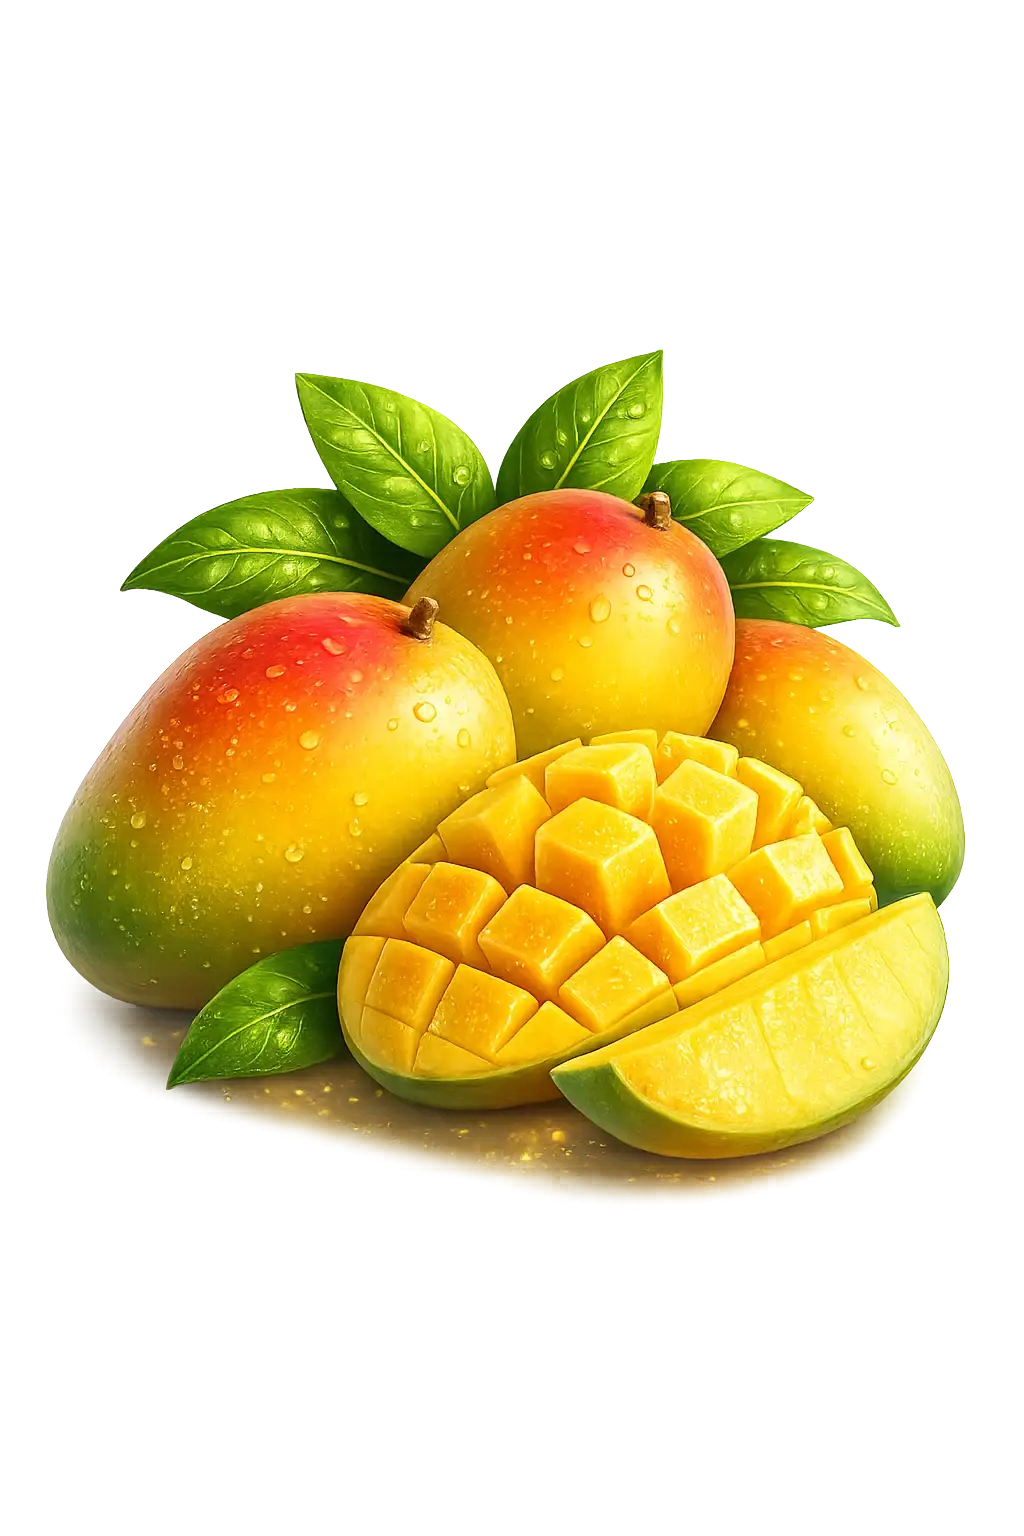
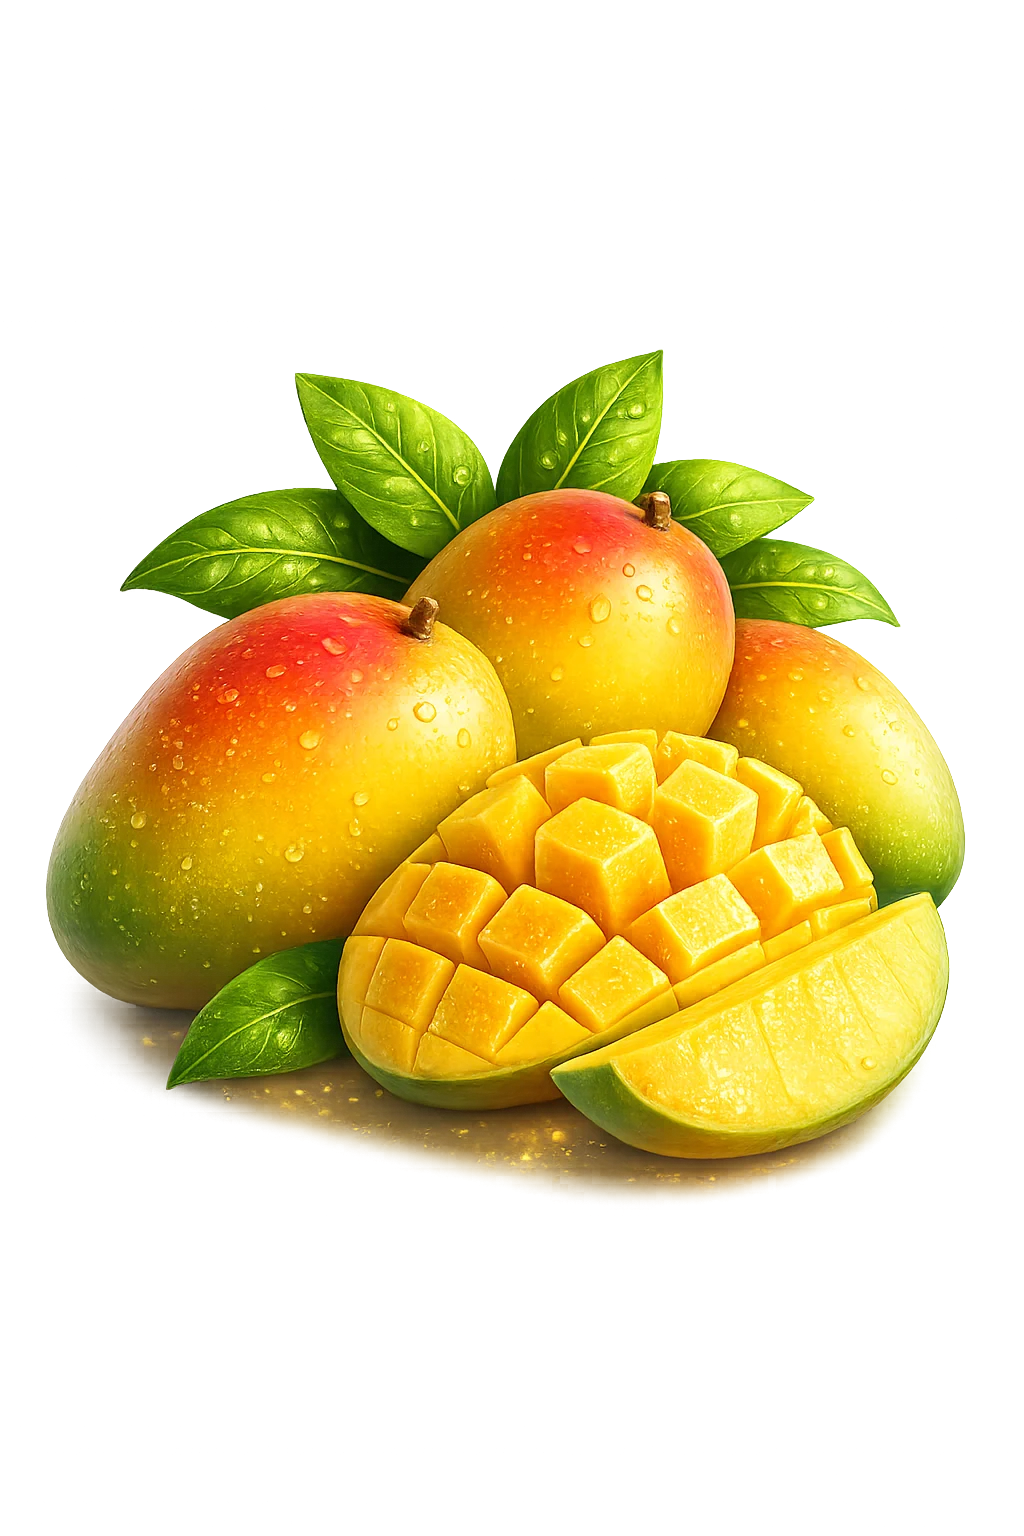
Game version 1 Completed

diff --git a/layered/lib/features/game_play/presentation/widgets/game_play_board.dart b/layered/lib/features/game_play/presentation/widgets/game_play_board.dart
@@ -17,8 +17,8 @@ class GamePlayBoard extends StatelessWidget {
 
   @override
   Widget build(BuildContext context) {
-    final isMobile = Responsive.isMobile(context);
-    final crossAxisCount = isMobile ? 3 : 6;
+    // final isMobile = Responsive.isMobile(context);
+    // final crossAxisCount = isMobile ? 3 : 6;
 
     return SafeArea(
       child: Column(
@@ -44,30 +44,47 @@ class GamePlayBoard extends StatelessWidget {
 
           // MIDDLE: BOTTLES
           Expanded(
-            child: Center(
-              child: GridView.builder(
-                shrinkWrap: true,
-                // padding: const EdgeInsets.all(20),
-                itemCount: level.tubes.length,
-                gridDelegate: SliverGridDelegateWithFixedCrossAxisCount(
-                  crossAxisCount: crossAxisCount,
-                  mainAxisExtent: isMobile?190:350,
-                  mainAxisSpacing: 10,
-                  crossAxisSpacing: 10,
-                  childAspectRatio: 0.5, 
-                  // Matches the elegant bottle height
-                ),
-                itemBuilder: (context, index) => GestureDetector(
-                  onTap: () => context.read<GamePlayCubit>().onTubeTapped(index),
-                  child: BottleWidget(
-                    tube: level.tubes[index],
-                    isSelected: selectedIdx == index,
-                  ),
-                ),
+  child: Center(
+    child: LayoutBuilder(
+      builder: (context, constraints) {
+        final isMobile = Responsive.isMobile(context);
+        
+        final crossAxisCount = isMobile ? 5 :level.tubes.length;
+
+        // Control spacing here
+        // const spacing = 2.0;
+
+        // Calculate exact width needed for grid
+        final itemWidth = constraints.maxWidth / crossAxisCount;
+        final gridWidth =
+            (itemWidth * crossAxisCount) - (0.0 * (crossAxisCount - 1));
+
+        return SizedBox(
+          width: gridWidth * 0.8, // 👈 shrink width to center items nicely
+          child: GridView.builder(
+            shrinkWrap: true,
+            itemCount: level.tubes.length,
+            gridDelegate: SliverGridDelegateWithFixedCrossAxisCount(
+              crossAxisCount: crossAxisCount,
+              mainAxisExtent: isMobile ? 190 : 350,
+              mainAxisSpacing: 20,
+              crossAxisSpacing: 1.0, // 👈 reduced gap
+              childAspectRatio: 0.5,
+            ),
+            itemBuilder: (context, index) => GestureDetector(
+              onTap: () =>
+                  context.read<GamePlayCubit>().onTubeTapped(index),
+              child: BottleWidget(
+                tube: level.tubes[index],
+                isSelected: selectedIdx == index,
               ),
             ),
           ),
-
+        );
+      },
+    ),
+  ),
+),
           // BOTTOM: ACTION BUTTONS
           Padding(
             padding: const EdgeInsets.only(bottom: 40, top: 10),

diff --git a/layered/lib/features/game_play/presentation/pages/game_play_screen.dart b/layered/lib/features/game_play/presentation/pages/game_play_screen.dart
@@ -3,11 +3,11 @@ import 'package:flutter_bloc/flutter_bloc.dart';
 import 'package:go_router/go_router.dart';
 import 'package:layered/core/responsive/responsive_config.dart';
 import 'package:layered/core/router/app_routes.dart';
+import 'package:layered/core/services/hive_service.dart';
 import 'package:layered/features/game_play/presentation/cubit/game_play_cubit.dart';
 import 'package:layered/features/game_play/presentation/widgets/action_button.dart';
 import 'package:layered/features/game_play/presentation/widgets/game_play_board.dart';
 import 'package:confetti/confetti.dart';
-import 'package:layered/features/game_play/presentation/widgets/round_button.dart';
 
 class GamePlayScreen extends StatelessWidget {
   final int levelNumber;
@@ -22,11 +22,7 @@ class GamePlayScreen extends StatelessWidget {
         body: BlocListener<GamePlayCubit, GamePlayState>(
           listener: (context, state) {
             if (state is GamePlayVictory) {
-              Future.delayed(const Duration(seconds: 1), () {
-                if (context.mounted) {
-                  _showVictoryDialog(context, state.levelNumber);
-                }
-              });
+              _showVictoryDialog(context, state.levelNumber);
             }
           },
           child: BlocBuilder<GamePlayCubit, GamePlayState>(
@@ -45,6 +41,7 @@ class GamePlayScreen extends StatelessWidget {
                         fit: BoxFit.cover,
                       ),
                     ),
+                    
                     switch (state) {
                       GamePlayLoading() => const Center(
                         child: CircularProgressIndicator(color: Colors.white),

diff --git a/layered/lib/features/game_map/presentation/widgets/map_content.dart b/layered/lib/features/game_map/presentation/widgets/map_content.dart
@@ -4,6 +4,8 @@ import 'package:flutter/material.dart';
 import 'package:layered/core/responsive/responsive_config.dart';
 import 'package:layered/features/game_map/presentation/constants/map_slot_positions.dart';
 import 'package:layered/features/game_map/presentation/widgets/level_bottle.dart';
+import 'package:layered/features/game_play/presentation/widgets/action_button.dart';
+import 'package:layered/features/game_play/presentation/widgets/level_pill.dart';
 
 class MapContent extends StatefulWidget {
   final int unlockedUpTo;
@@ -57,6 +59,19 @@ class _MapContentState extends State<MapContent> {
             slots: slots,
             unlockedUpTo: widget.unlockedUpTo,
           ),
+          Positioned(
+                      top: 50,
+                      left:0,
+                      right:0,
+                      child: SizedBox(
+                        width: 50,
+                        child: Center(
+                          child: LevelPill(
+                            levelNumber: widget.unlockedUpTo,
+                          ),
+                        ),
+                      ),
+                    ),
         ],
       );
     });

diff --git a/layered/lib/features/game_play/presentation/widgets/bottle_widget.dart b/layered/lib/features/game_play/presentation/widgets/bottle_widget.dart
@@ -1,4 +1,5 @@
 import 'package:flutter/material.dart';
+import 'package:layered/features/game_play/domain/fruit_type.dart';
 import 'package:layered/features/game_play/domain/tube.dart';
 import 'package:layered/features/game_play/presentation/widgets/fruit_assets.dart';
 
@@ -67,7 +68,7 @@ class BottleWidget extends StatelessWidget {
                           child: fruit == null
                               ? const SizedBox(key: ValueKey('empty'))
                               : Transform.scale(
-                                  scale: 1.3, // 👈 increase size
+                                  scale: _fruitScale(fruit), // 👈 increase size
                                   child: Image.asset(
                                     fruitAsset(fruit),
                                     fit: BoxFit.contain,
@@ -85,4 +86,13 @@ class BottleWidget extends StatelessWidget {
       },
     );
   }
+  double _fruitScale(FruitType fruit) {
+  switch (fruit) {
+    case FruitType.grapes:
+    case FruitType.mango:
+      return 1.6; // slightly smaller
+    default:
+      return 2.0; // normal fruits
+  }
+}
 }

diff --git a/layered/lib/core/router/app_router.dart b/layered/lib/core/router/app_router.dart
@@ -38,18 +38,18 @@ final appRouter = GoRouter(
     GoRoute(
       path: AppRoutes.gamePlay,
       name: AppRoutes.gamePlay,
-      redirect: (context, state) {
-        final level =
-            int.tryParse(state.uri.queryParameters['level'] ?? '') ?? 1;
+      // redirect: (context, state) {
+      //   final level =
+      //       int.tryParse(state.uri.queryParameters['level'] ?? '') ?? 1;
 
-        final unlocked = HiveService.instance.unlockedUpTo;
+      //   final unlocked = HiveService.instance.unlockedUpTo;
 
-        if (level > unlocked) {
-          return '${AppRoutes.gamePlay}?level=$unlocked';
-        }
+      //   if (level > unlocked) {
+      //     return '${AppRoutes.gamePlay}?level=$unlocked';
+      //   }
 
-        return null; // allow navigation
-      },
+      //   return null; // allow navigation
+      // },
       builder: (context, state) {
         final level =
             int.tryParse(state.uri.queryParameters['level'] ?? '') ?? 1;
